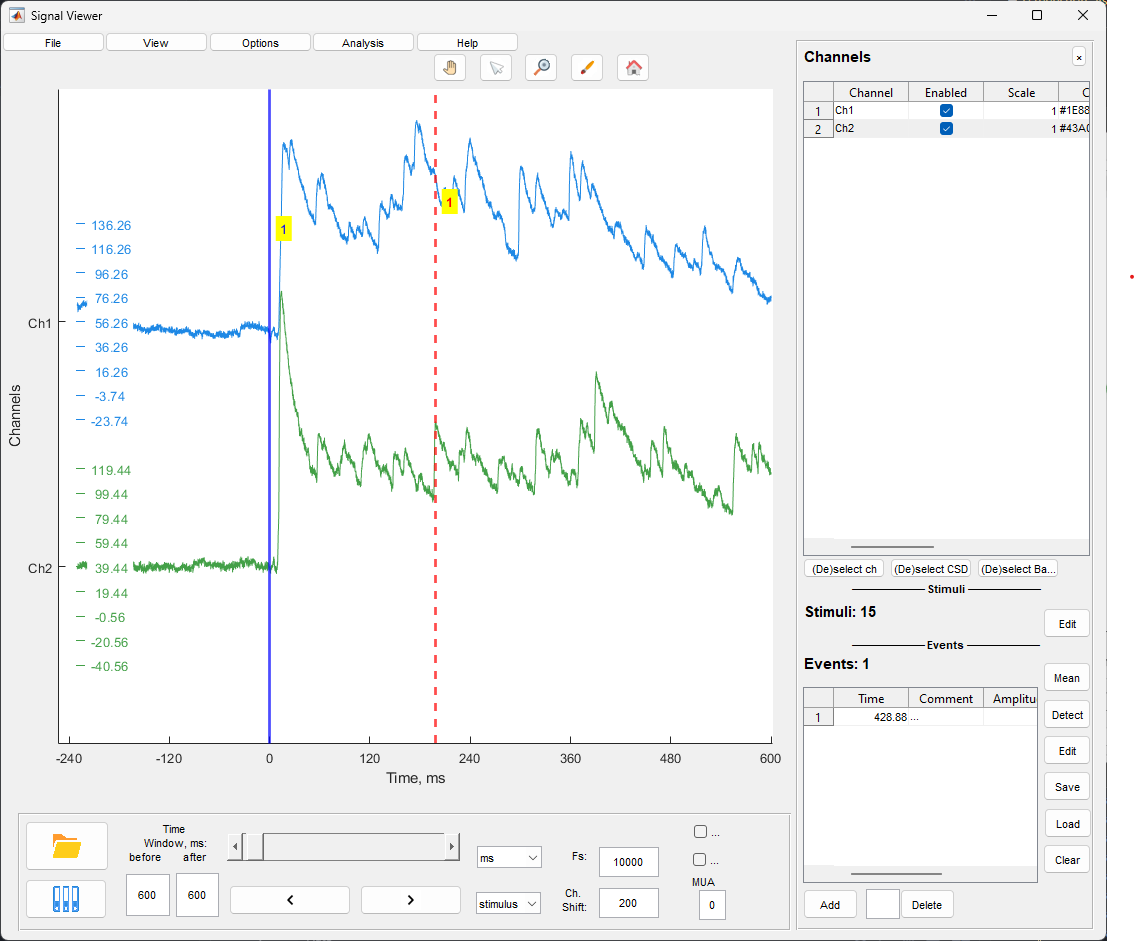
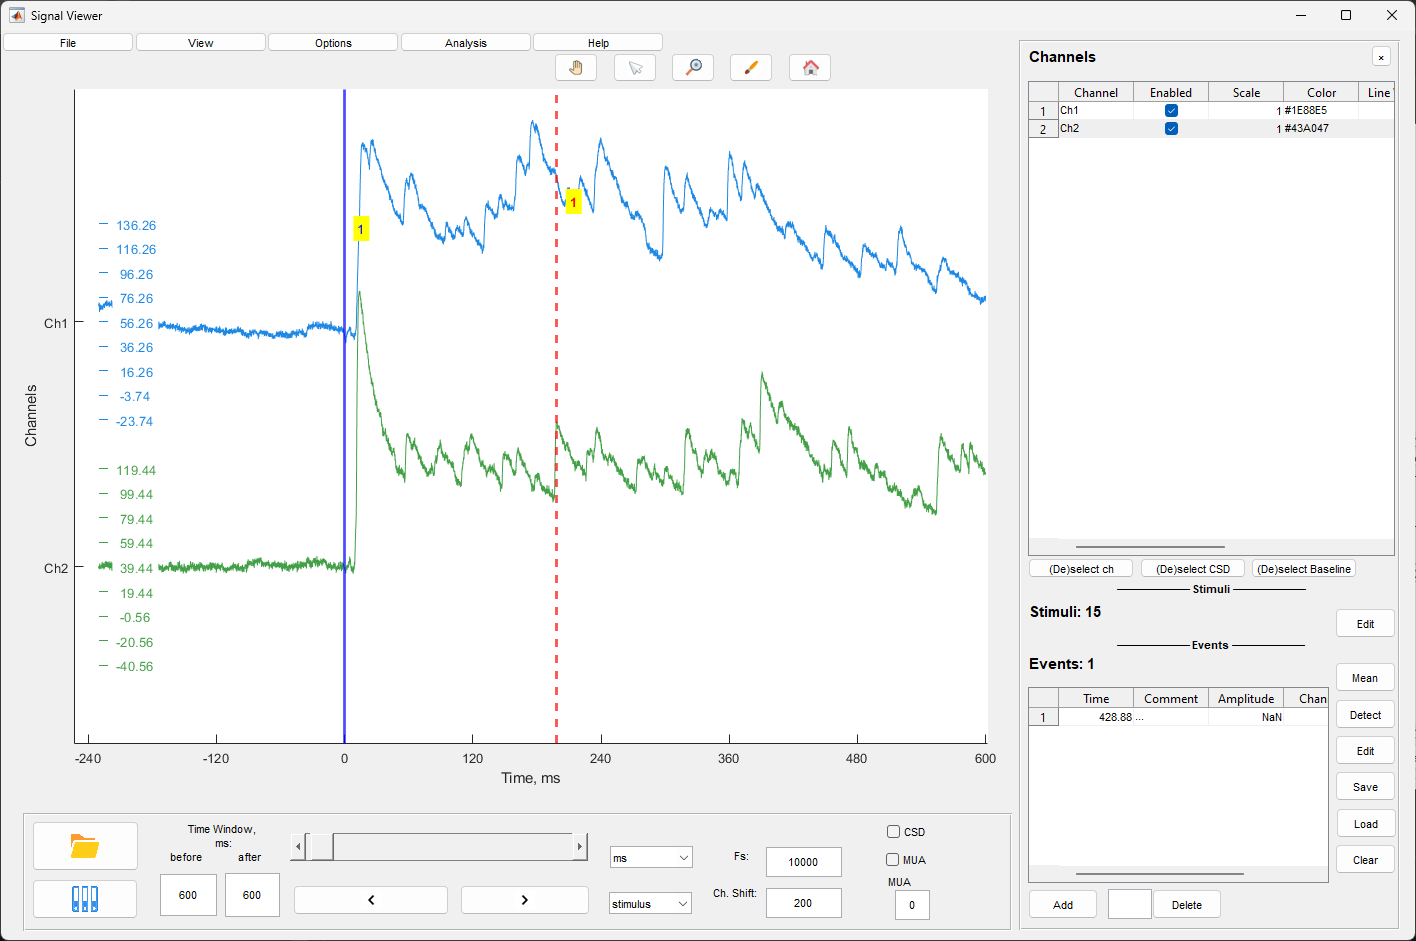
Update screenshots and adjust UI layout in fileManagerGUI. Marked file_manager_main.png and signal_analysis_main.png as completed in the documentation. Adjusted positions of UI elements for better alignment and usability in the File Manager interface.

diff --git a/functions/fileManagerGUI.m b/functions/fileManagerGUI.m
@@ -134,7 +134,7 @@ function fileManagerGUI()
         moduleList = {'autoMeanStimulus'};
     end
     filterByModuleCheckbox = uicontrol('Style', 'checkbox', ...
-        'Position', [930, 398, 180, 30], ...
+        'Position', [1100, 380, 180, 30], ...
         'String', 'Filter by module', ...
         'Value', 0, ...
         'Callback', @filterByModuleChanged);
@@ -172,27 +172,27 @@ function fileManagerGUI()
         'Data', cell(0, 2));
     
     launchQueueBtn = uicontrol('Style', 'pushbutton', ...
-        'Position', [930, 398, 150, 38], ...
+        'Position', [930, 415, 150, 30], ...
         'String', 'Launch Module', ...
         'FontSize', 11, ...
         'Callback', @callModulesCallback, ...
         'Enable', 'off');
     
     clearQueueBtn = uicontrol('Style', 'pushbutton', ...
-        'Position', [1090, 398, 150, 38], ...
+        'Position', [1120, 415, 150, 30], ...
         'String', 'Clear queue', ...
         'FontSize', 11, ...
         'Callback', @clearModuleQueue);
     
     openAnalysisBtn = uicontrol('Style', 'pushbutton', ...
-        'Position', [930, 353, 150, 38], ...
+        'Position', [930, 353, 150, 30], ...
         'String', 'Open Result', ...
         'FontSize', 11, ...
         'Callback', @openSelectedAnalysis, ...
         'Enable', 'off');
     
     openAnalysisFolderBtn = uicontrol('Style', 'pushbutton', ...
-        'Position', [1090, 353, 150, 38], ...
+        'Position', [1120, 353, 150, 30], ...
         'String', 'Result Folder', ...
         'FontSize', 11, ...
         'Callback', @openAnalysisFolder, ...
@@ -211,7 +211,7 @@ function fileManagerGUI()
         'ColumnEditable', [false, false, false]);
     
     uicontrol('Style', 'text', ...
-        'Position', [930, 430, 100, 25], ...
+        'Position', [930, 380, 100, 25], ...
         'String', 'Results', ...
         'HorizontalAlignment', 'left', ...
         'FontSize', 12, ...
